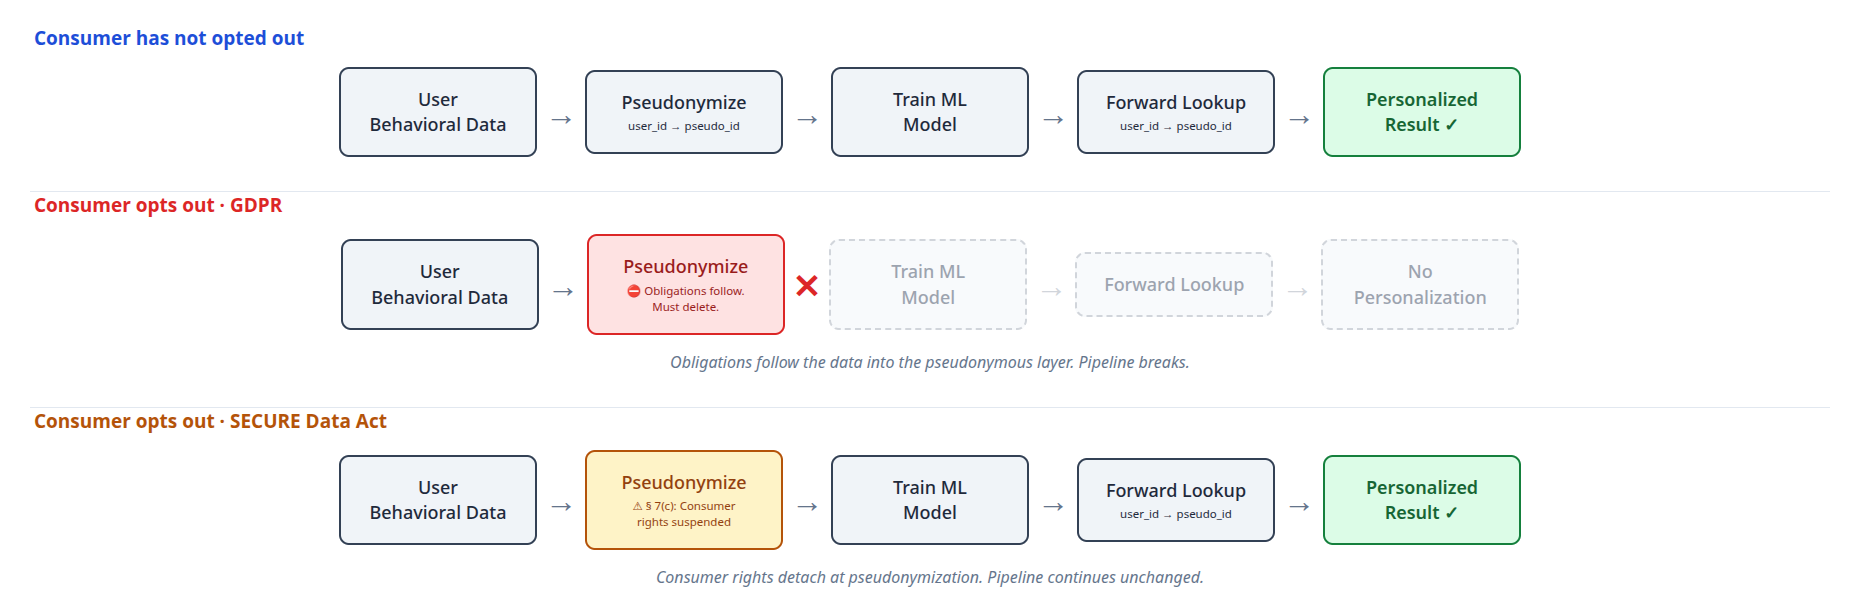
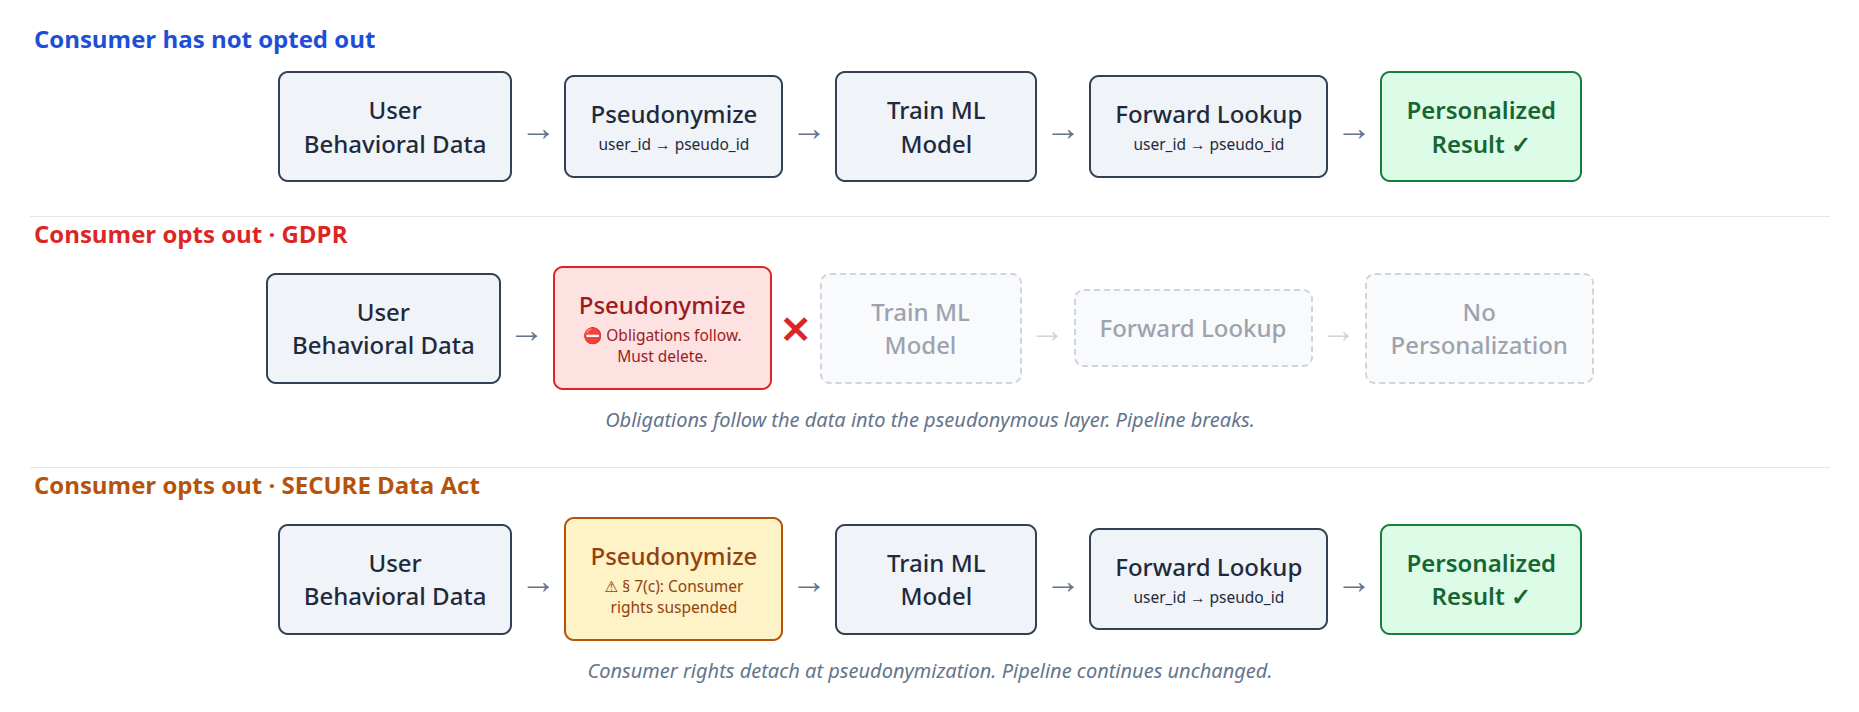
Enlarge diagram fonts to 24px and make image tap-to-zoom on mobile

diff --git a/_drafts/2026-05-06-secure-data-act-the-dilution-in-pseudonymization.md b/_drafts/2026-05-06-secure-data-act-the-dilution-in-pseudonymization.md
@@ -53,7 +53,7 @@ When a consumer opts out of personalization, their data, keyed by pseudo_id, has
 
 Did you notice the difference? Neither did I.
 
-![The same data pipeline under three scenarios: no opt-out, opt-out under GDPR, and opt-out under the SECURE Data Act. The first and third pipelines produce identical personalized results. The GDPR pipeline breaks at pseudonymization.](/assets/images/secure-data-act-pipeline.png)
+[![The same data pipeline under three scenarios: no opt-out, opt-out under GDPR, and opt-out under the SECURE Data Act. The first and third pipelines produce identical personalized results. The GDPR pipeline breaks at pseudonymization.](/assets/images/secure-data-act-pipeline.png)](/assets/images/secure-data-act-pipeline.png)
 
 Here is how the bill permits this. At no point was pseudonymous data attributed to an identified person. The system started with a known user and walked forward into the pseudonymous layer. It never walked backward. Forward resolution is not re-identification. The bill's re-identification provisions contemplate the reverse direction. Forward resolution is simply how a personalization system works. The bill does not address it.
 
